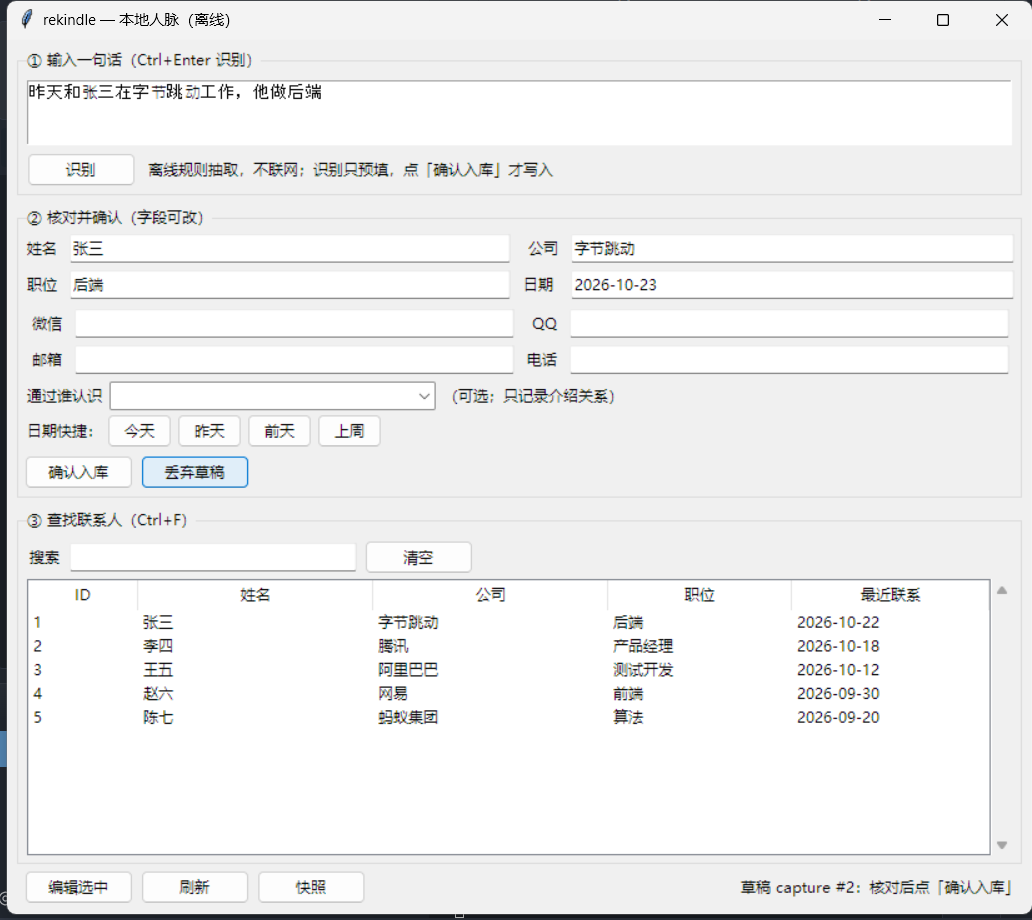
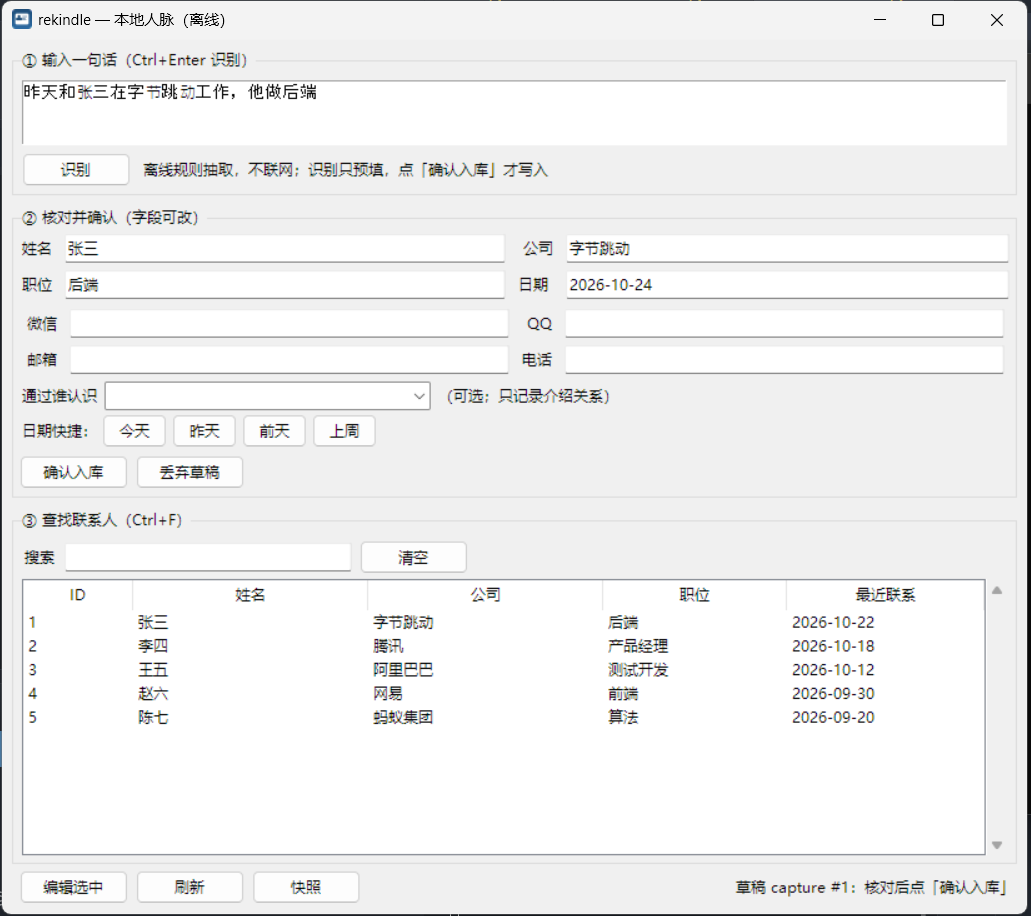
feat(build): 打包 Windows exe，加入图标与版本信息；docs: 补充快速上手与截图
- build：PyInstaller 单文件 GUI，版本资源由 __version__ 生成；新增 tools/ 三个脚本与 build extra

- ui：窗口/任务栏/exe 图标统一为 assets/rekindle.ico（名片，7 档尺寸）

- docs：README 改为三步上手；澄清 LLM 未接入；补充实现状态与截图

- chore：修正 TODO 中 LLM 测试数量（45 → 6）

diff --git a/tools/make_version_info.py b/tools/make_version_info.py
@@ -1,0 +1,56 @@
+'''生成 PyInstaller 的 Windows 版本资源，版本号从 rekindle.__version__ 读取（单一来源）。'''
+
+from __future__ import annotations
+
+from pathlib import Path
+
+from rekindle import __version__
+
+
+def _quad(version: str) -> tuple[int, int, int, int]:
+    parts = [int(p) for p in version.split('.') if p.isdigit()][:4]
+    while len(parts) < 4:
+        parts.append(0)
+    return parts[0], parts[1], parts[2], parts[3]
+
+
+def main() -> int:
+    a, b, c, d = _quad(__version__)
+    text = f"""# 由 tools/make_version_info.py 生成，不要手改
+VSVersionInfo(
+  ffi=FixedFileInfo(
+    filevers=({a}, {b}, {c}, {d}),
+    prodvers=({a}, {b}, {c}, {d}),
+    mask=0x3f,
+    flags=0x0,
+    OS=0x40004,
+    fileType=0x1,
+    subtype=0x0,
+    date=(0, 0)
+  ),
+  kids=[
+    StringFileInfo([
+      StringTable(
+        '040904B0',
+        [StringStruct('CompanyName', 'rekindle'),
+         StringStruct('FileDescription', 'rekindle - local-first contacts manager'),
+         StringStruct('FileVersion', '{__version__}'),
+         StringStruct('InternalName', 'rekindle'),
+         StringStruct('LegalCopyright', 'TBD'),
+         StringStruct('OriginalFilename', 'rekindle.exe'),
+         StringStruct('ProductName', 'rekindle'),
+         StringStruct('ProductVersion', '{__version__}')])
+    ]),
+    VarFileInfo([VarStruct('Translation', [1033, 1200])])
+  ]
+)
+"""
+    out = Path('build') / 'version_info.txt'
+    out.parent.mkdir(parents=True, exist_ok=True)
+    out.write_text(text, encoding='utf-8')
+    print(f'wrote {out} (version {__version__})')
+    return 0
+
+
+if __name__ == '__main__':
+    raise SystemExit(main())

diff --git a/src/rekindle/interfaces/gui.py b/src/rekindle/interfaces/gui.py
@@ -8,6 +8,7 @@ from __future__ import annotations
 
 import argparse
 import contextlib
+import sys
 import tkinter as tk
 from datetime import date, datetime, timedelta
 from functools import partial
@@ -33,6 +34,7 @@ class RekindleApp(tk.Tk):
         self.title('rekindle — 本地人脉（离线）')
         self.geometry('820x700')
         self.minsize(700, 560)
+        self._set_window_icon()
         self._repo = SqliteRepo(db_path)
         self._capture_id: int | None = None
 
@@ -53,6 +55,15 @@ class RekindleApp(tk.Tk):
         self.refresh()
 
     # ---------- 布局 ----------
+
+    def _set_window_icon(self) -> None:
+        '''打包后用自带图标；源码运行时找不到就跳过。'''
+        base = Path(getattr(sys, '_MEIPASS', Path(__file__).resolve().parents[3]))
+        icon = base / 'assets' / 'rekindle.ico'
+        if icon.exists():
+            with contextlib.suppress(tk.TclError):
+                # tkinter 的 iconbitmap 没有类型标注（同 editor.py 的 curselection）
+                self.iconbitmap(default=str(icon))  # type: ignore[no-untyped-call]
 
     def _build(self) -> None:
         capture = ttk.LabelFrame(self, text='① 输入一句话（Ctrl+Enter 识别）')

diff --git a/tools/entry_gui.py b/tools/entry_gui.py
@@ -1,0 +1,10 @@
+'''PyInstaller 打包入口：双击 exe 时启动 GUI。'''
+
+from __future__ import annotations
+
+import sys
+
+from rekindle.interfaces.gui import main
+
+if __name__ == '__main__':
+    sys.exit(main())

diff --git a/README.md b/README.md
@@ -4,12 +4,10 @@
 
 > 本地优先的个人人脉管理器：**一句话记人，随时找得到**。
 
-- **无自有服务端**：出站流量仅限你自己配置的 LLM 端点（当前不接入，实际零联网）
-- **可离线**：内置规则抽取，断网 / 没有 API key 也能用
-- **不自动写入**：抽取结果先预填，你确认后才入库
+- **完全离线**：运行时本应用不产生网络请求，防止个人隐私泄露
 - **快**：一句话 3 步入库；列表最近联系优先，搜索即时过滤
 - **越用越准**：姓名优先级 = 已有人脉姓名 > 常见大姓 > 常见小姓；抽不到就留空让你改
-- **不要求固定句式**：`和张三吃饭`、`张三在吃饭`、`今天张三在吃饭` 都能抽到姓名
+- **不自动写入**：抽取结果先预填，你确认后才入库
 - **公司按时间积累**：同一个人换公司不会覆盖旧记录，详情里能看到完整公司历史
 - **联系方式可多个**：微信 / QQ / 邮箱 / 电话都支持追加（不覆盖旧值），搜索时也会匹配
 - **可以不写句子**：留空原话、直接填姓名等字段入库；记录文本自动生成「用户输入了：姓名：…」
@@ -27,7 +25,7 @@
 `v0.3` **离线原型**：记一句话 → 规则抽取 → 人工确认 → 入库 → 搜索查看。
 
 - **只有两件事**：快速记人、快速查人。提醒与待办已按产品决策移除（没人会在电脑上维护它们）；
-- **LLM 抽取暂停**：`domain/extract_llm.py`、`infra/llm_http.py` 与测试保留，但界面不接入，运行时不产生任何网络请求；
+- **LLM 未接入（不是“默认关闭”，是没有入口）**：`domain/extract_llm.py`、`infra/llm_http.py` 与 6 个单测保留，但 CLI / GUI / API 都不会调用它们，运行时零出站；
 - 尚未实现：设置持久化、消歧打分、全局热键（见 [TODO.md](TODO.md)）。
 
 产品边界、数据模型、里程碑见：
@@ -35,7 +33,17 @@
 - [开发文档 v0.2](docs/开发文档.md) —— 定位、原则、边界、架构、里程碑
 - [设计细节 v0.2](docs/设计细节.md) —— 数据模型、抽取管线、消歧、提醒、隐私
 
-## 快速开始
+## 快速上手（Windows）
+
+1. 运行 **`dist\rekindle.exe`**（本地打包产物，约 20 MB；仓库暂未上传 Release）
+2. 双击即可，无需安装 Python。首次启动约 5–20 秒（单文件解压 + 杀软扫描），之后 2 秒内；exe 未签名，SmartScreen 提示时点「更多信息 → 仍要运行」
+3. 三步：**① 输入一句话 → 识别 → ② 核对并确认 → ③ 搜索联系人**
+
+数据默认存在 `%USERPROFILE%\.rekindle\rekindle.db`；换位置用 `--db` 或环境变量 `REKINDLE_DB`。
+
+重新打包：`pip install -e ".[build]"`，然后 `.\tools\build_exe.ps1`（产物在 `dist\`）。
+
+## 从源码运行（开发）
 
 需要 **Python 3.14+**（与 `pyproject.toml` 的 `requires-python` 一致；CI 也只测这个版本）。
 
@@ -122,9 +130,10 @@ rekindle-api --db ~/.rekindle/rekindle.db --port 8000
 
 ## 隐私
 
-本工具不连接任何自有服务器。默认的「离线模式」不产生任何网络请求；开启 LLM 抽取后，
-**你输入的原文会发送到你自己配置的端点**，不会经过本项目作者的服务器。
-每次调用前的目标域名与将发送的文本都会展示，并记录在本地调用日志中。
+本工具不连接任何自有服务器，当前版本也**不接入任何大模型**：没有设置项、没有开关，运行时不会产生网络请求。
+
+仓库里保留了 LLM 抽取的代码与测试（`domain/extract_llm.py`、`infra/llm_http.py`），但没有任何入口调用它们。将来若要接入，原则是：
+原文只会发送到**你自己配置的端点**，发送前展示目标域名与将发送的文本，并记录本地调用日志。
 
 ## License
 

diff --git a/docs/开发文档.md b/docs/开发文档.md
@@ -8,6 +8,8 @@
 | 配套文档 | [设计细节 v0.2](设计细节.md)（数据模型 / 管线 / 消歧 / 提醒 / 隐私 / 评测） |
 | 产品名 | `rekindle`（**工作名**，可随时改，只需改 pyproject 与包名） |
 
+> **实现状态（2026-10）**：本文是设计阶段（v0.2）快照，与当前实现存在差异：LLM 抽取**未接入**（代码保留、无入口）、提醒/待办**已移除**、GUI 使用 Tkinter。以 README 与代码为准。
+
 ## 变更记录（v0.1 → v0.2）
 
 | 编号 | 位置 | 变更 | 原因 |

diff --git a/TODO.md b/TODO.md
@@ -54,4 +54,4 @@
 - [x] T3 规则抽取：extract_rule.py + 20 测试（离线）
 - [x] AI 权限关系原则加入 .clinerules；权限与存档设计（§11）
 - [x] 权限设置领域模型 + 代码层开关（Settings/Permission/require）
-- [x] T4 LLM 抽取：extract_llm + HttpLlmClient + 45 测试；真机验证通过
+- [x] T4 LLM 抽取：extract_llm + HttpLlmClient + 6 个单测；DeepSeek 真机验证（HTTP 200），但**未接入界面**

diff --git a/docs/设计细节.md b/docs/设计细节.md
@@ -10,6 +10,7 @@
 ---
 
 > **2026-10-22 变更**：§4（提醒调度）与 §10（待办）已废弃，代码中已移除；本文件保留作为历史设计记录。
+> **2026-10 补充**：§2.3 的 LLM 抽取**未接入产品**——代码与测试保留，但 CLI / GUI / API 都没有入口，默认离线、零出站。
 
 ## 1. 数据模型
 
